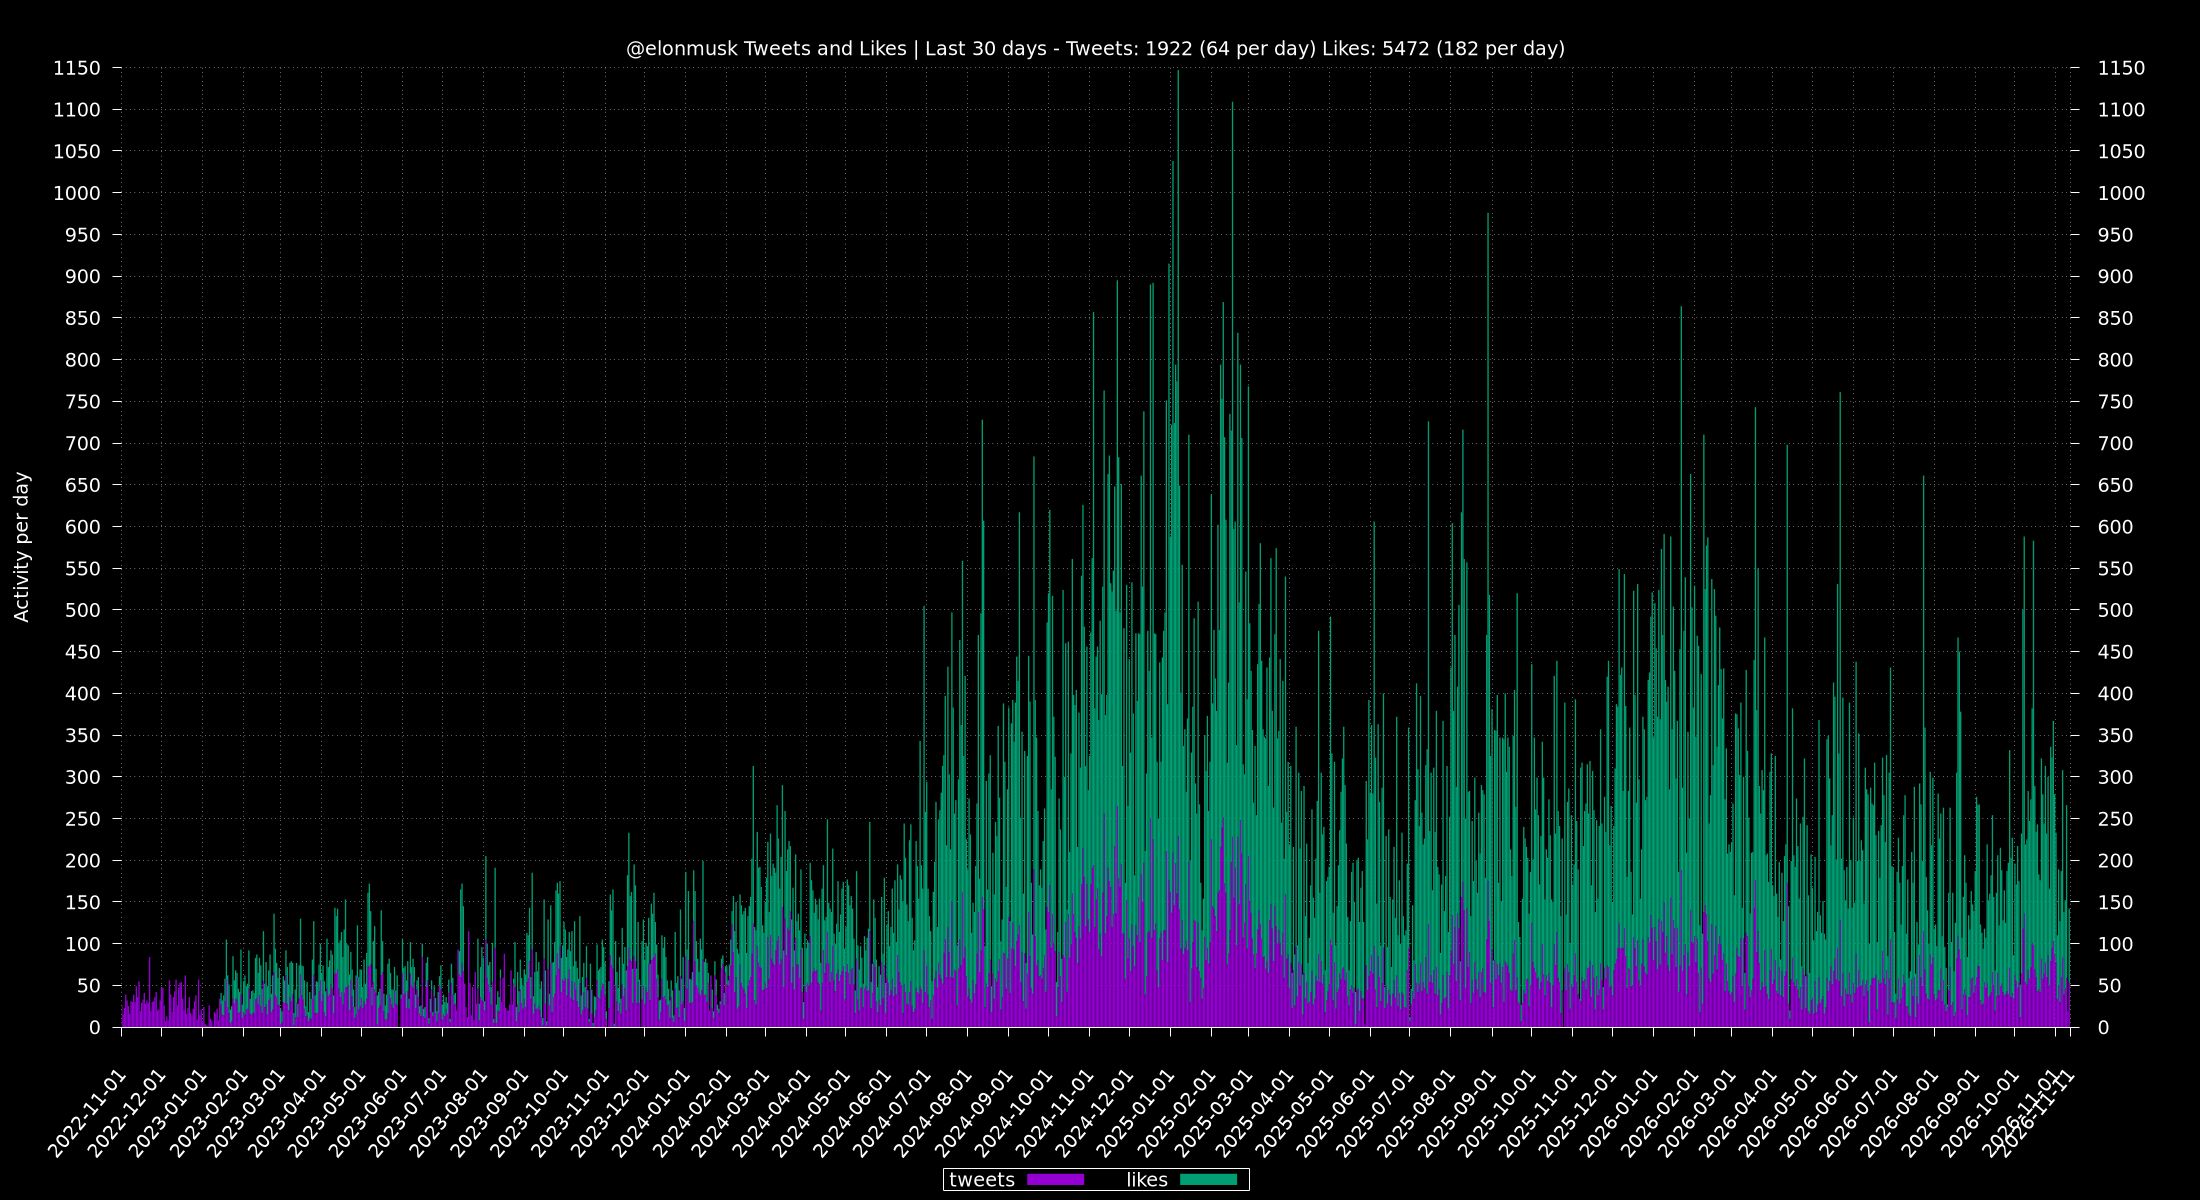
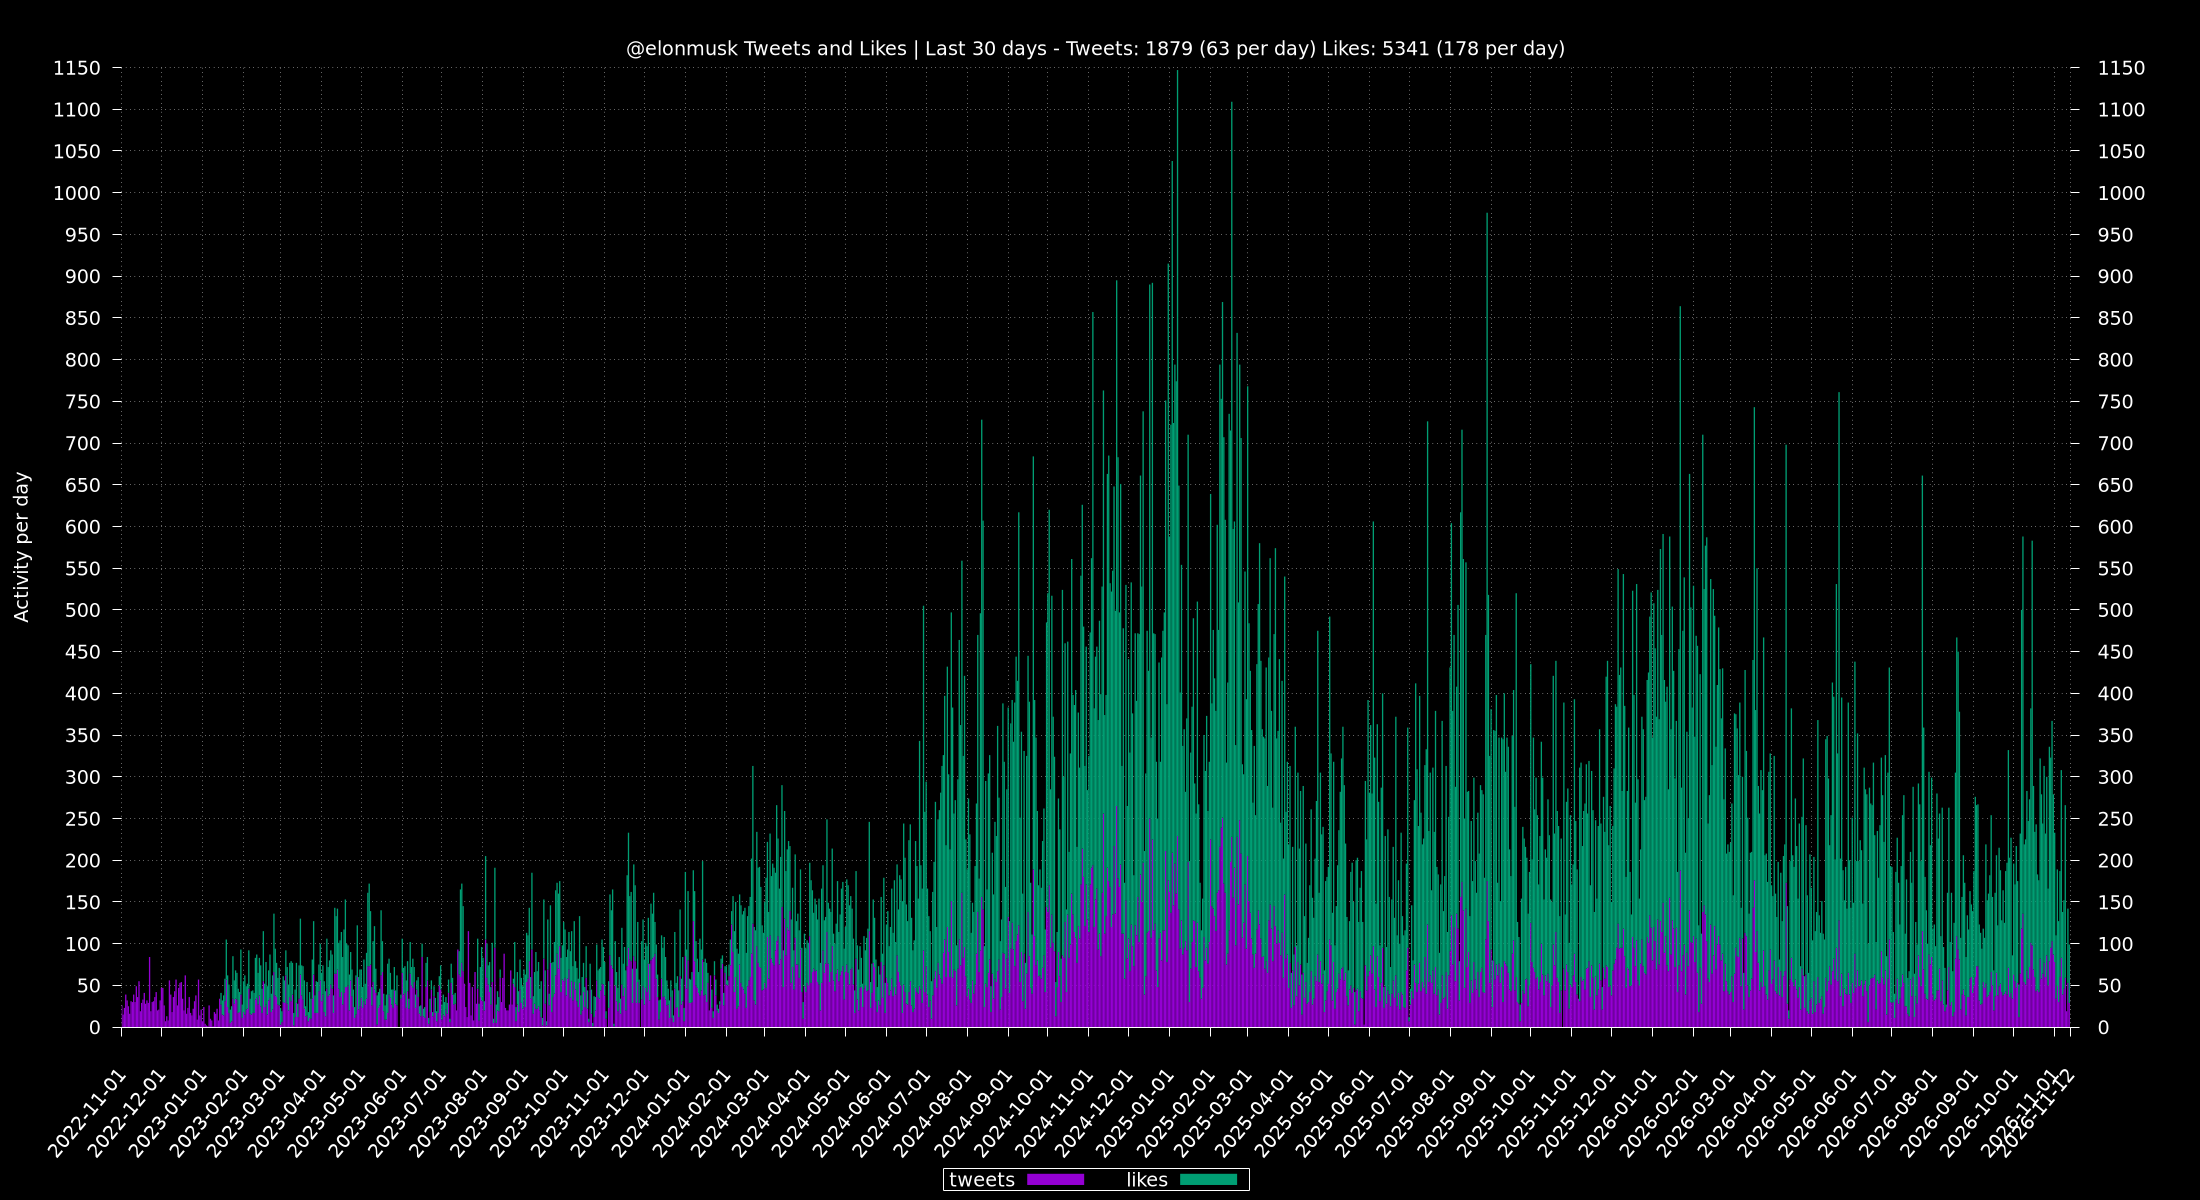
update via cron

diff --git a/totals/README.md b/totals/README.md
@@ -1,6 +1,6 @@
 ## Last 30 Days
-Tweets: 1980 (64 per day)\
-Likes: 5661 (183 per day)
+Tweets: 1951 (63 per day)\
+Likes: 5542 (179 per day)
 
 ## 24 Hours
 Max: [**341**](../misc/most-tweets_24-hr.csv) - From `2024-11-23 14:29:53 CST` To `2024-11-24 14:28:44 CST`
